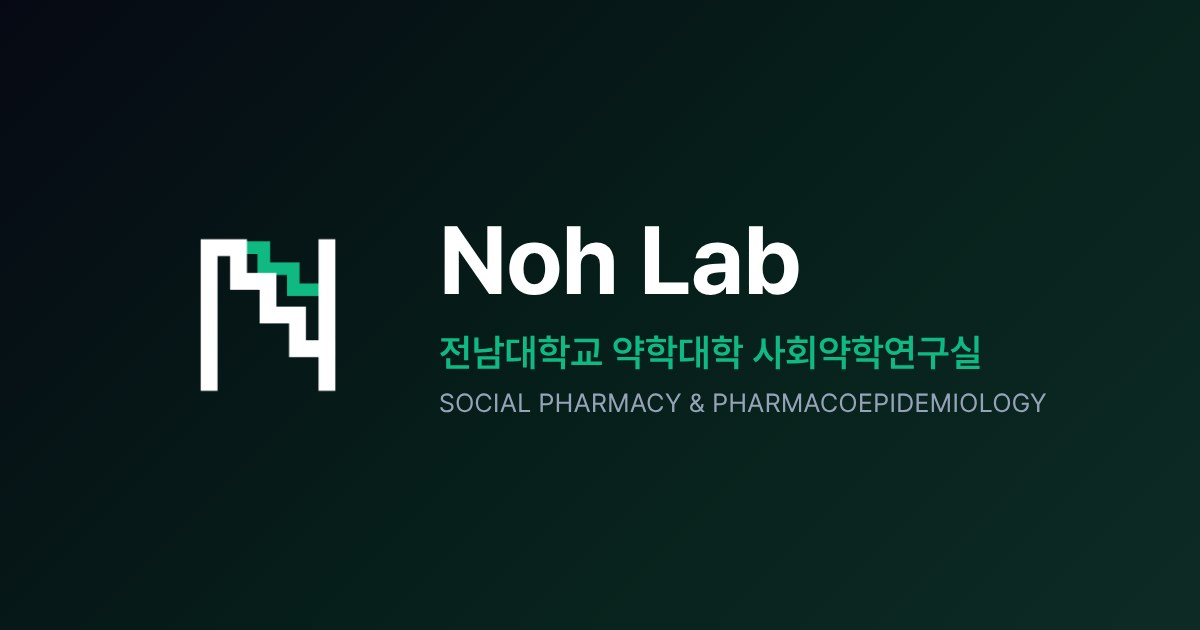
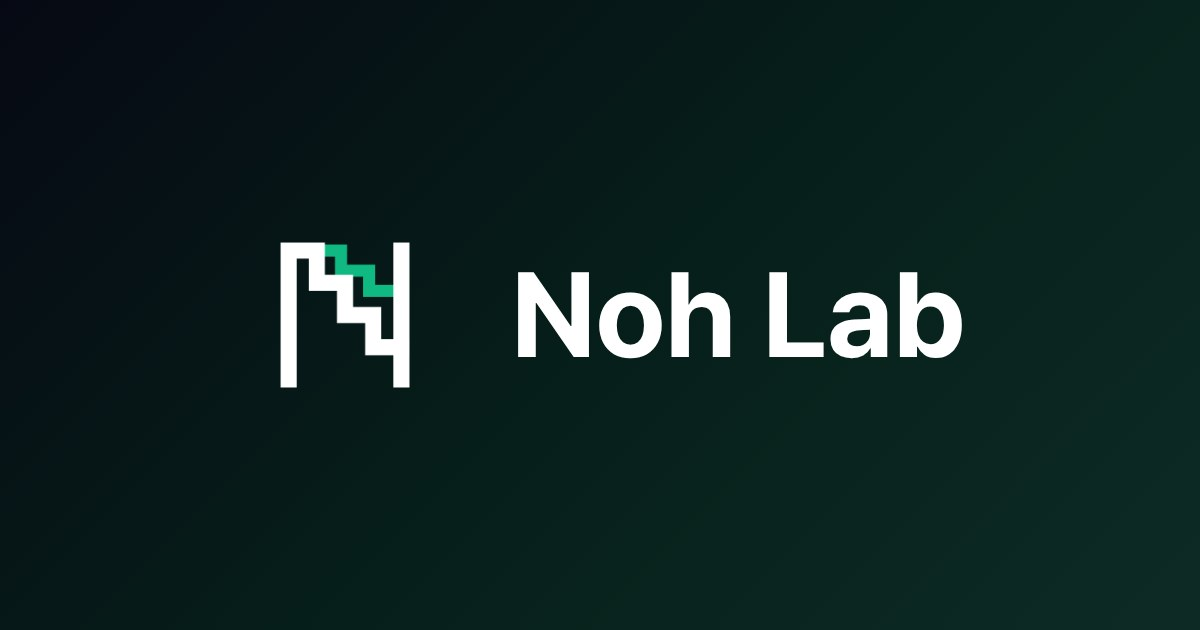
공유 미리보기 이미지를 로고+Noh Lab으로 단순화, 설명에서 교수명 제외
Claude-Session: https://claude.ai/code/session_01VstwbWbJmodUijsPnH57kL

Changed region(s): [[0.1542, 0.3619, 0.8633, 0.6635]]

diff --git a/publications.html b/publications.html
@@ -4,11 +4,11 @@
   <meta charset="UTF-8">
   <meta name="viewport" content="width=device-width, initial-scale=1.0">
   <title data-i18n="pub_site_title">Publications | Noh Lab</title>
-  <meta name="description" content="전남대학교 약학대학 사회약학연구실(노윤하 교수)">
+  <meta name="description" content="전남대학교 약학대학 사회약학연구실">
   <meta property="og:type" content="website">
   <meta property="og:site_name" content="Noh Lab">
   <meta property="og:title" content="Publications | Noh Lab">
-  <meta property="og:description" content="전남대학교 약학대학 사회약학연구실(노윤하 교수)">
+  <meta property="og:description" content="전남대학교 약학대학 사회약학연구실">
   <meta property="og:url" content="https://nohlab-research.github.io/publications">
   <meta property="og:image" content="https://nohlab-research.github.io/images/og-image.jpg">
   <meta property="og:image:width" content="1200">

diff --git a/research.html b/research.html
@@ -4,11 +4,11 @@
   <meta charset="UTF-8">
   <meta name="viewport" content="width=device-width, initial-scale=1.0">
   <title data-i18n="res_site_title">Research | Noh Lab</title>
-  <meta name="description" content="전남대학교 약학대학 사회약학연구실(노윤하 교수)">
+  <meta name="description" content="전남대학교 약학대학 사회약학연구실">
   <meta property="og:type" content="website">
   <meta property="og:site_name" content="Noh Lab">
   <meta property="og:title" content="Research | Noh Lab">
-  <meta property="og:description" content="전남대학교 약학대학 사회약학연구실(노윤하 교수)">
+  <meta property="og:description" content="전남대학교 약학대학 사회약학연구실">
   <meta property="og:url" content="https://nohlab-research.github.io/research">
   <meta property="og:image" content="https://nohlab-research.github.io/images/og-image.jpg">
   <meta property="og:image:width" content="1200">

diff --git a/members.html b/members.html
@@ -4,11 +4,11 @@
   <meta charset="UTF-8">
   <meta name="viewport" content="width=device-width, initial-scale=1.0">
   <title data-i18n="mem_site_title">Members | Noh Lab</title>
-  <meta name="description" content="전남대학교 약학대학 사회약학연구실(노윤하 교수)">
+  <meta name="description" content="전남대학교 약학대학 사회약학연구실">
   <meta property="og:type" content="website">
   <meta property="og:site_name" content="Noh Lab">
   <meta property="og:title" content="Members | Noh Lab">
-  <meta property="og:description" content="전남대학교 약학대학 사회약학연구실(노윤하 교수)">
+  <meta property="og:description" content="전남대학교 약학대학 사회약학연구실">
   <meta property="og:url" content="https://nohlab-research.github.io/members">
   <meta property="og:image" content="https://nohlab-research.github.io/images/og-image.jpg">
   <meta property="og:image:width" content="1200">

diff --git a/news.html b/news.html
@@ -4,11 +4,11 @@
   <meta charset="UTF-8">
   <meta name="viewport" content="width=device-width, initial-scale=1.0">
   <title data-i18n="news_site_title">News | Noh Lab</title>
-  <meta name="description" content="전남대학교 약학대학 사회약학연구실(노윤하 교수)">
+  <meta name="description" content="전남대학교 약학대학 사회약학연구실">
   <meta property="og:type" content="website">
   <meta property="og:site_name" content="Noh Lab">
   <meta property="og:title" content="News | Noh Lab">
-  <meta property="og:description" content="전남대학교 약학대학 사회약학연구실(노윤하 교수)">
+  <meta property="og:description" content="전남대학교 약학대학 사회약학연구실">
   <meta property="og:url" content="https://nohlab-research.github.io/news">
   <meta property="og:image" content="https://nohlab-research.github.io/images/og-image.jpg">
   <meta property="og:image:width" content="1200">

diff --git a/index.html b/index.html
@@ -7,7 +7,7 @@
   <meta property="og:type" content="website">
   <meta property="og:site_name" content="Noh Lab">
   <meta property="og:title" content="Noh Lab | 전남대학교 약학대학">
-  <meta property="og:description" content="전남대학교 약학대학 사회약학연구실(노윤하 교수)">
+  <meta property="og:description" content="전남대학교 약학대학 사회약학연구실">
   <meta property="og:url" content="https://nohlab-research.github.io/">
   <meta property="og:image" content="https://nohlab-research.github.io/images/og-image.jpg">
   <meta property="og:image:width" content="1200">
